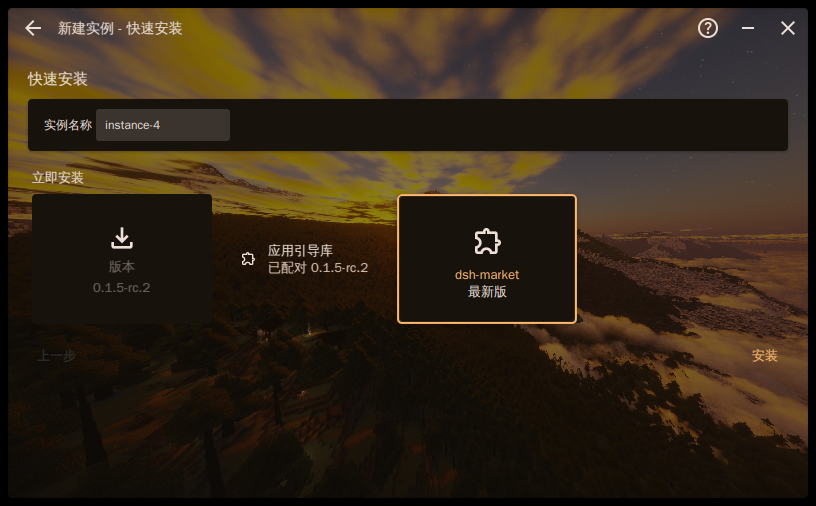
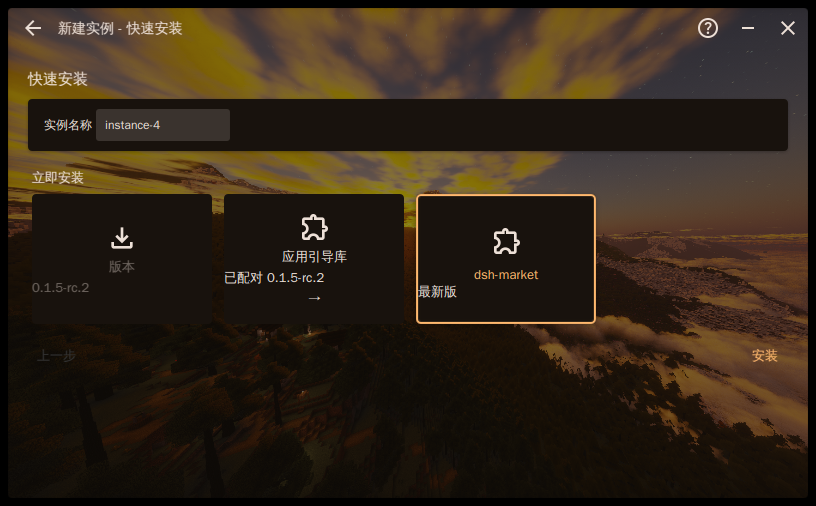
Make the boot library a card, the way the original makes Fabric API one
It was a full-width row while everything beside it was a card, so the one thing
on the page that opens looked like the one thing that does not. It is a card
now: icon, name, the state of the choice, and the arrow the original puts on the
cards that open — which is how you can tell what opens before the pointer
reaches it.

The version card is built by the same helper with no action, so it stays the
statement it is meant to be: the version was settled on the page before this
one, which is the original's arrangement as well.

The status lives in a property rather than a label the card writes to, because
the card is built before the version it reports on is known to it.

diff --git a/src/main/resources/assets/css/root.css b/src/main/resources/assets/css/root.css
@@ -412,7 +412,12 @@
     -fx-pref-width: 100px;
 }
 
-.installer-item-wrapper .installer-item:list-item > .installer-item-status {
+.installer-item-wrapper .installer-item:list-item > .installer-item-arrow {
+    -fx-font-size: 14px;
+    -fx-opacity: 0.7;
+}
+
+.installer-item-status {
     -fx-max-width: infinity;
 }
 

diff --git a/src/main/java/org/jackhuang/hmcl/ui/dsh/install/QuickInstallPage.java b/src/main/java/org/jackhuang/hmcl/ui/dsh/install/QuickInstallPage.java
@@ -21,6 +21,9 @@ import com.jfoenix.controls.JFXButton;
 import com.jfoenix.controls.JFXTextField;
 import javafx.geometry.Insets;
 import javafx.geometry.Pos;
+import javafx.beans.property.SimpleStringProperty;
+import javafx.beans.property.StringProperty;
+import org.jetbrains.annotations.Nullable;
 import javafx.scene.Node;
 import javafx.scene.control.Label;
 import javafx.scene.control.ScrollPane;
@@ -90,6 +93,12 @@ public final class QuickInstallPage extends ScrollPane implements WizardPage {
     /// The selection is read straight from the controls rather than mirrored
     /// into a map: a parallel copy can drift from what the user sees.
     private final List<PluginCard> presetCards = new ArrayList<>();
+
+    /// The state shown on the boot library card.
+    ///
+    /// A property rather than a label the card writes to, because the card is
+    /// built before the version it reports on is known to it.
+    private final StringProperty appBootStatus = new SimpleStringProperty();
 
     /// Creates the quick-install page.
     ///
@@ -174,11 +183,23 @@ public final class QuickInstallPage extends ScrollPane implements WizardPage {
     ///
     /// @return the card
     private Node buildAppBootCard() {
-        LineButton card = new LineButton();
-        card.setTitle(i18n("dsh.install.app_boot"));
-        card.setSubtitle(i18n("dsh.install.app_boot.matched", currentAppBoot()));
-        card.setLeading(SVG.EXTENSION, 16);
-        card.setOnAction(event -> chooseAppBoot(card));
+        Label status = new Label();
+        status.getStyleClass().add("installer-item-status");
+        status.textProperty().bind(appBootStatus);
+
+        Label name = new Label(i18n("dsh.install.app_boot"));
+        name.getStyleClass().add("installer-item-name");
+
+        Label arrow = new Label("\u2192");
+        arrow.getStyleClass().add("installer-item-arrow");
+
+        VBox card = new VBox(4, SVG.EXTENSION.createIcon(32), name, status, arrow);
+        card.getStyleClass().addAll("installer-item-wrapper", "installer-item-card");
+        card.setAlignment(Pos.CENTER);
+        FXUtils.onClicked(card, () -> chooseAppBoot(card));
+
+        FXUtils.installFastTooltip(card, i18n("dsh.install.app_boot.hint"));
+        appBootStatus.set(i18n("dsh.install.app_boot.matched", currentAppBoot()));
         return card;
     }
 
@@ -199,7 +220,7 @@ public final class QuickInstallPage extends ScrollPane implements WizardPage {
     /// running that version shares it.
     ///
     /// @param card the card to update after a choice
-    private void chooseAppBoot(LineButton card) {
+    private void chooseAppBoot(Node card) {
         List<String> versions = availableAppBootVersions();
         if (versions.isEmpty()) {
             Controllers.dialog(i18n("dsh.install.app_boot.unavailable"),
@@ -222,7 +243,7 @@ public final class QuickInstallPage extends ScrollPane implements WizardPage {
         chooser.valueProperty().addListener((observable, was, chosen) -> {
             if (chosen == null || chosen.isBlank() || chosen.equals(currentVersion())) {
                 controller.getSettings().remove(DshInstallWizardProvider.APP_BOOT);
-                card.setSubtitle(i18n("dsh.install.app_boot.matched", currentAppBoot()));
+                appBootStatus.set(i18n("dsh.install.app_boot.matched", currentAppBoot()));
                 return;
             }
             // The warning says what the choice costs: the pairing is not a
@@ -231,7 +252,7 @@ public final class QuickInstallPage extends ScrollPane implements WizardPage {
             Controllers.dialog(i18n("dsh.install.app_boot.warning", chosen, currentVersion()),
                     i18n("dsh.install.app_boot"), MessageType.WARNING, () -> {
                         controller.getSettings().put(DshInstallWizardProvider.APP_BOOT, chosen);
-                        card.setSubtitle(i18n("dsh.install.app_boot.chosen", chosen));
+                        appBootStatus.set(i18n("dsh.install.app_boot.chosen", chosen));
                     });
         });
     }
@@ -264,20 +285,46 @@ public final class QuickInstallPage extends ScrollPane implements WizardPage {
     /// Builds the card stating which version is being installed.
     ///
     /// @return the card
-    private javafx.scene.Node buildVersionCard() {
-        javafx.scene.layout.VBox card = new javafx.scene.layout.VBox(4);
-        card.getStyleClass().addAll("installer-item-wrapper", "installer-item-card");
-        card.setAlignment(javafx.geometry.Pos.CENTER);
-        card.setDisable(true);
+    private Node buildVersionCard() {
+        return buildCard(SVG.DOWNLOAD, i18n("dsh.install.version.card"),
+                currentVersion() == null ? i18n("dsh.install.version.none") : currentVersion(),
+                null);
+    }
 
-        javafx.scene.control.Label name = new javafx.scene.control.Label(i18n("dsh.install.version.card"));
+    /// Builds one card of the install grid.
+    ///
+    /// The shape is the original's component card: an icon, the component's
+    /// name, and the state of the choice beneath it. A card that opens is given
+    /// the arrow the original puts on those, so what can be opened is visible
+    /// before the pointer reaches it.
+    ///
+    /// @param icon    the card's icon
+    /// @param title   the component's name
+    /// @param status  the state of the choice
+    /// @param onOpen  what clicking does, or `null` when the card is a statement
+    /// @return the card
+    private Node buildCard(SVG icon, String title, String status, @Nullable Runnable onOpen) {
+        Label name = new Label(title);
         name.getStyleClass().add("installer-item-name");
 
-        javafx.scene.control.Label value = new javafx.scene.control.Label(
-                currentVersion() == null ? i18n("dsh.install.version.none") : currentVersion());
+        Label value = new Label(status);
         value.getStyleClass().add("installer-item-status");
 
-        card.getChildren().addAll(org.jackhuang.hmcl.ui.SVG.DOWNLOAD.createIcon(32), name, value);
+        VBox card = new VBox(4, icon.createIcon(32), name, value);
+        card.getStyleClass().addAll("installer-item-wrapper", "installer-item-card");
+        card.setAlignment(Pos.CENTER);
+
+        if (onOpen == null) {
+            // A statement rather than a choice: the version was settled on the
+            // page before this one, which is the original's arrangement too.
+            card.setDisable(true);
+            return card;
+        }
+
+        Label arrow = new Label("\u2192");
+        arrow.getStyleClass().add("installer-item-arrow");
+        card.getChildren().add(arrow);
+        FXUtils.onClicked(card, onOpen);
         return card;
     }
 
